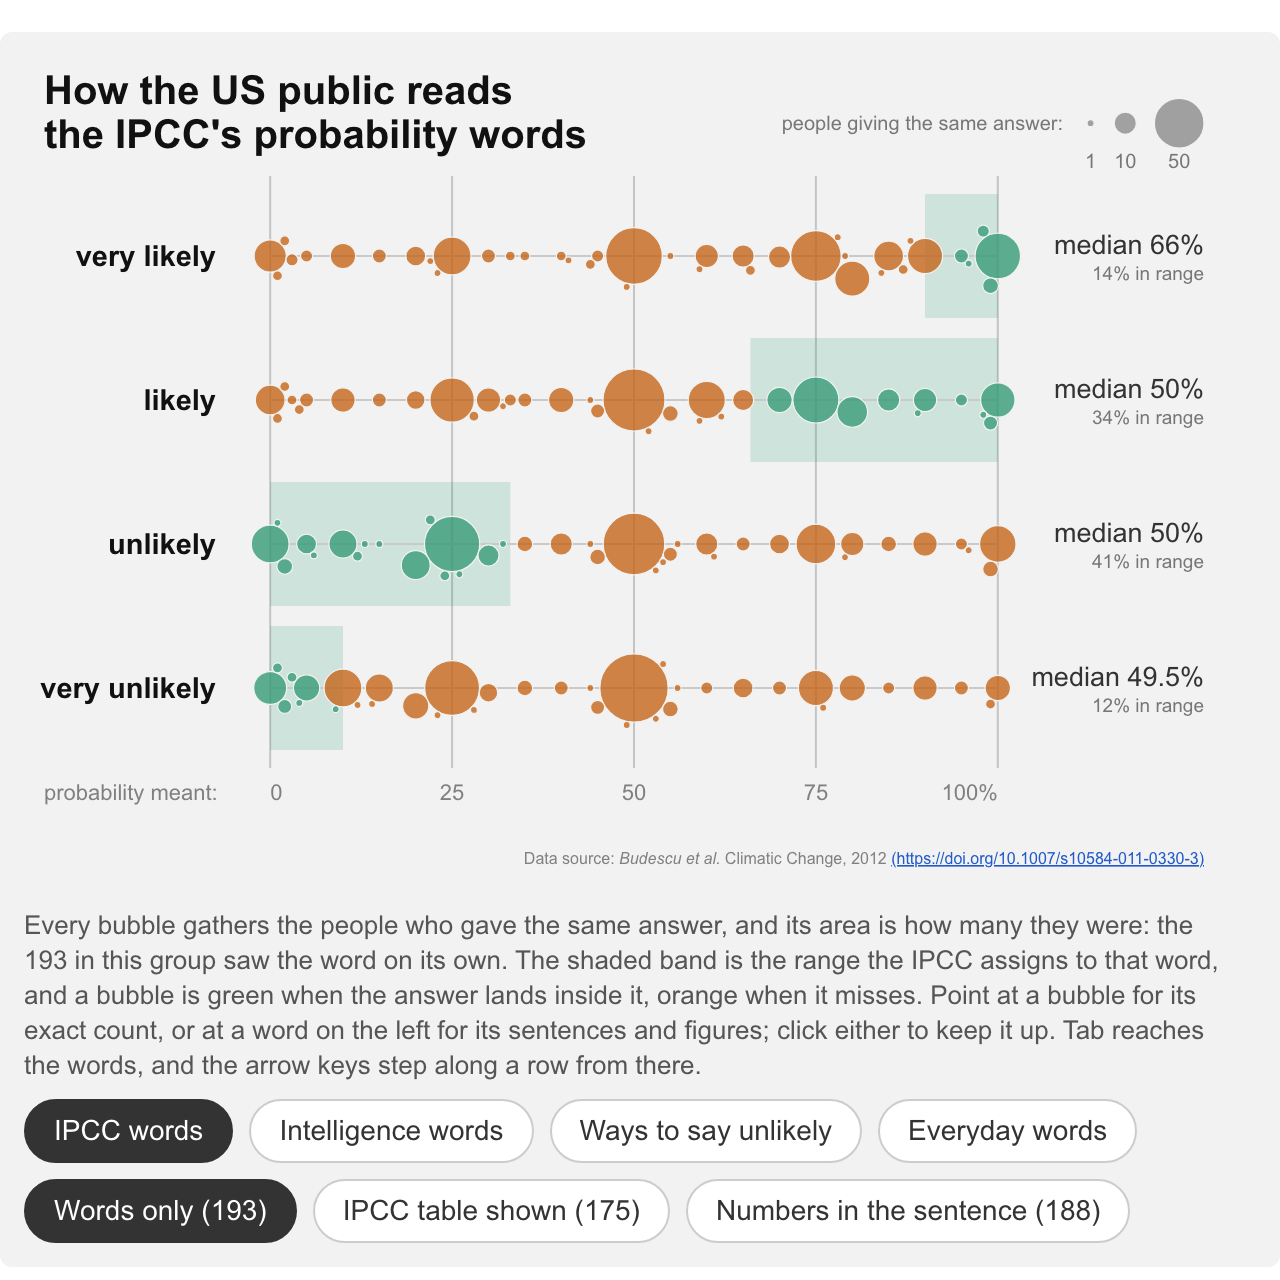
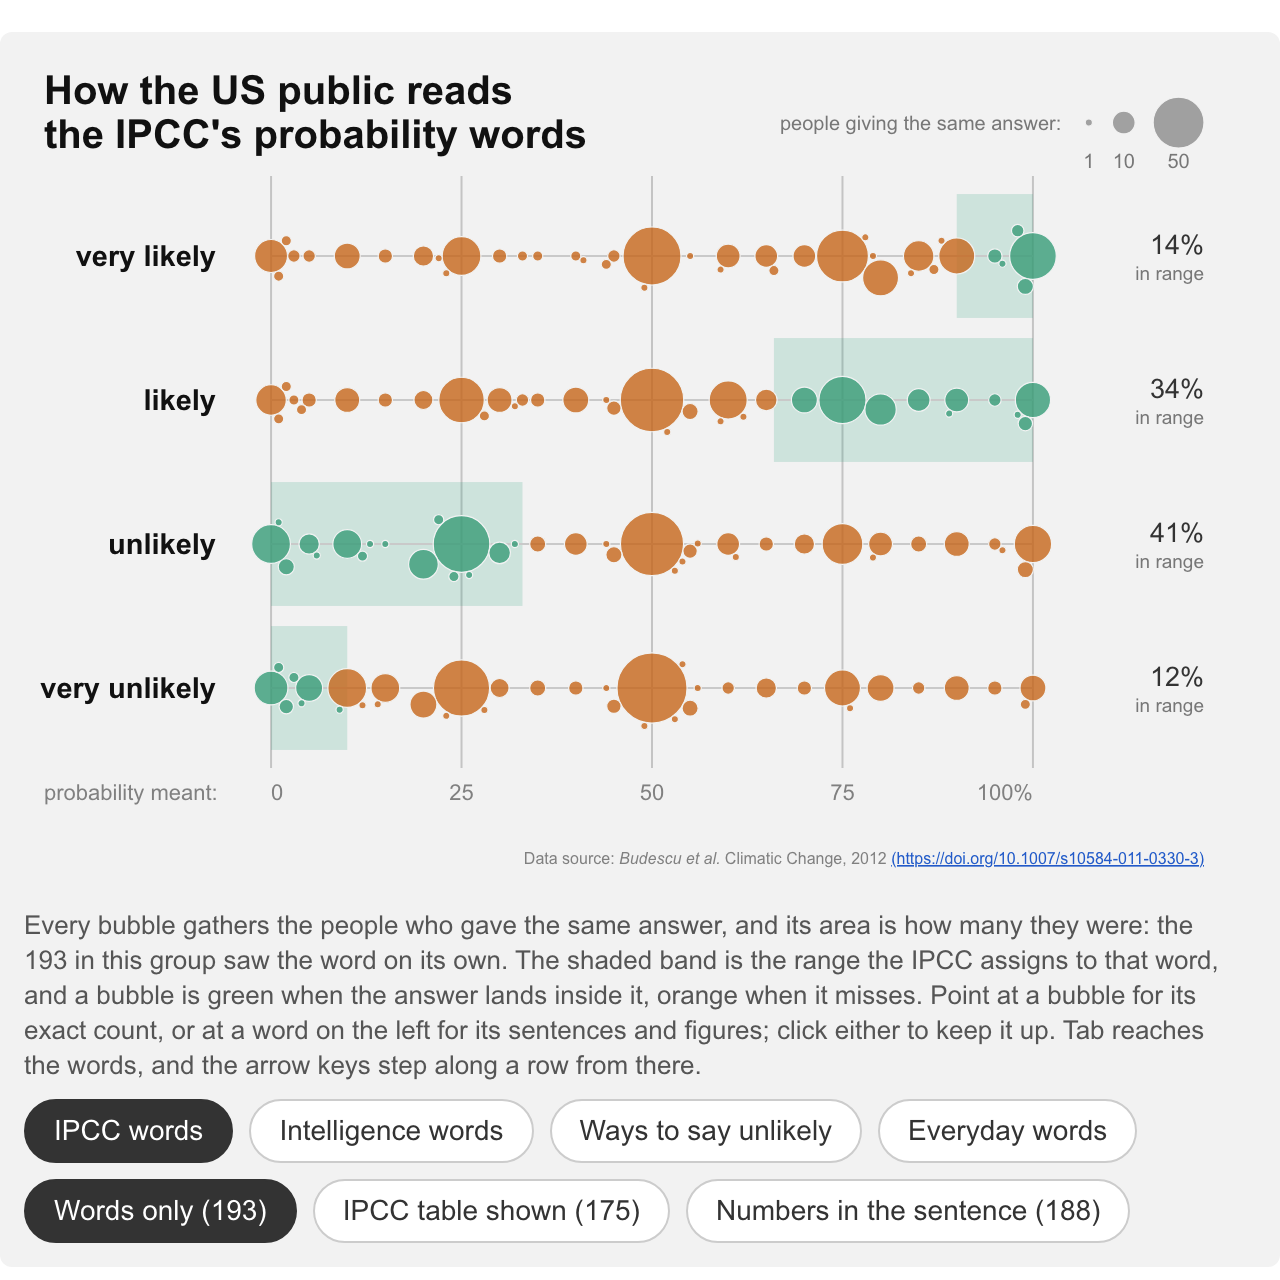
Show only the in-range share on the right, not the median
The median and the in-range share sat one above the other and answered two
unrelated questions, which made the larger number ambiguous once the box
plots were gone. The in-range share is the one the colouring is about, so it
takes the slot on its own: the percentage set large with "in range" under it.

The everyday-phrase survey has no official range and so nothing to put
there, and its right margin now shrinks to plain padding instead of holding
an empty column, which hands about 60px back to its axis.

The median is still in the hover text and in each row's accessible
description; it is only gone from the figure's right-hand labels.

diff --git a/src/probability-words/widget.js b/src/probability-words/widget.js
@@ -395,7 +395,7 @@ export function createProbabilityWordsWidget({data, width = FIGURE_WIDTH} = {}) 
   let nRows, rowPitch, swarmHalf, figureHeight, rowBottom, tickY, sourceY;
 
   let w, marginL, marginR, plotL, plotR, axL, axR, unitR;
-  let longSentence, shortAxisName, showKey, showInRange, longMedian;
+  let longSentence, shortAxisName, showKey, showInRange;
   let titleFont, termFont, readFont, subReadFont, tickFont, sourceFont, keyFont, pickFont;
 
   // The laid-out bubbles for the current width, by condition then row; also what the
@@ -435,16 +435,15 @@ export function createProbabilityWordsWidget({data, width = FIGURE_WIDTH} = {}) 
     const labelFont = `bold ${termFont}px sans-serif`;
     const widest = Math.max(...study.terms.map(term => textWidth(term.label, labelFont)));
     marginL = clamp(Math.ceil(widest) + 18, 76, Math.round(w * 0.45));
-    marginR = lerp(66, 96); // fits "med 49.5%" at the narrow end, "median 100%" at the wide
+    // Only the studies with an official range have anything to put on the right, so the
+    // everyday phrases get that space back as axis instead of an empty column.
+    marginR = study.authority === null ? lerp(16, 26) : lerp(58, 78);
     plotL = marginL;
     plotR = w - marginR;
 
     // Stepwise, not continuous: text either fits or it does not, and switching at a
     // threshold beats letting it shrink until it is unreadable.
-    showInRange = w >= 450 && study.authority !== null;
-    // The number on the right is a median, and with the box plots gone nothing else on the
-    // row says so, so it carries its own word rather than standing there bare.
-    longMedian = w >= 450;
+    showInRange = study.authority !== null;
     shortAxisName = w < 430;
     showKey = w >= 520;
     longSentence = w >= 480;
@@ -901,8 +900,10 @@ export function createProbabilityWordsWidget({data, width = FIGURE_WIDTH} = {}) 
     readSub = [];
     study.terms.forEach((_, i) => {
       const cy = rowY(i);
+      // The share of the row that met the official range, which is the whole point of the
+      // colouring, set big with its qualifier under it rather than as one long line.
       const main = svgEl("text", {
-        x: w - 10, y: showInRange ? cy - 1 : cy + termFont * 0.35, "text-anchor": "end",
+        x: w - 10, y: cy - 1, "text-anchor": "end",
         "font-size": readFont, fill: "#333",
       });
       const sub = svgEl("text", {
@@ -997,9 +998,9 @@ export function createProbabilityWordsWidget({data, width = FIGURE_WIDTH} = {}) 
       const s = condition.rows[i];
       labelUnderlines[i].setAttribute("opacity", labelRow === i ? 1 : 0);
 
-      readMain[i].textContent = s.n ? `${longMedian ? "median" : "med"} ${fmt(s.median)}%` : "";
-      readSub[i].textContent =
-        showInRange && s.n && s.pctInRange !== null ? `${s.pctInRange.toFixed(0)}% in range` : "";
+      const hasRange = showInRange && s.n && s.pctInRange !== null;
+      readMain[i].textContent = hasRange ? `${s.pctInRange.toFixed(0)}%` : "";
+      readSub[i].textContent = hasRange ? "in range" : "";
 
       labelGroups[i].setAttribute("aria-label", rowSpeech(i, term, s));
     });
